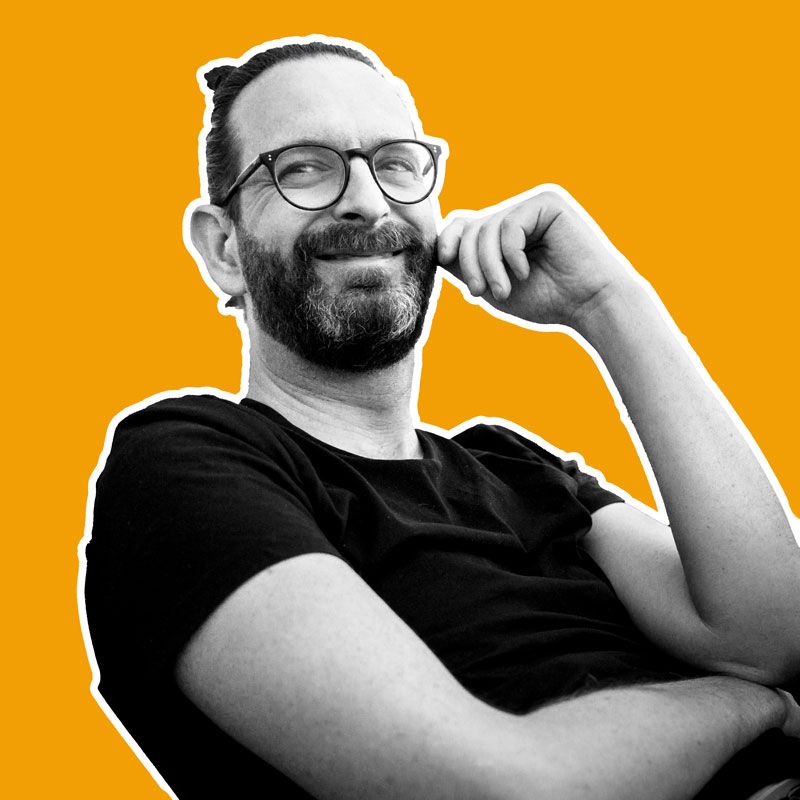
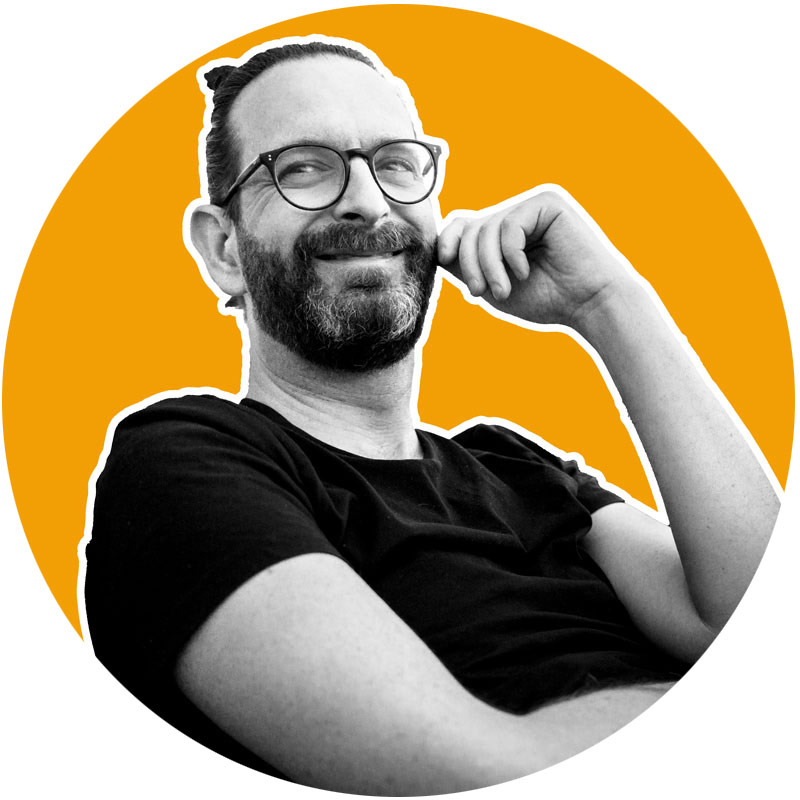
kleine korrekturen

Changed region(s): [[0.0, 0.0, 1.0, 1.0]]

diff --git a/src/index.html b/src/index.html
@@ -85,11 +85,10 @@
 		<div class="container page" id="start">
 			<div class="row">
 				<div class="col-sm-7" id="startProfileImage">
-					<div>&nbsp;</div>
-
+					<img src="de/img/profilbild.jpg" title="Bild von Bänä" alt="Bild von Bänä">
 				</div>
-
-				<div class="col-sm-5">
+				<div class="col-sm-1"></div>
+				<div class="col-sm-4">
 					<h1>Bänä Fotografie</h1>
 					<p>Professionelle Fotografie aus Bremen. Alles rund um Menschen und Business. City und Landschaft.</p>
 					<p>Achtung: <strong>Keine Party/Event Fotografie.</strong>. Keine Hochzeiten, Geburtstage, Firmenfeste oder andere Arten
@@ -158,8 +157,7 @@
 			<div class="row">
 				<div class="col-sm-6">
 					<h1>Leistungs-übersicht</h1>
-					<p>Du hast Lust auf ein Shooting oder du brauchst Fotos von deiner Firma, Mitarbeitern oder Produkten? Dann melde dich
-						gerne. Gerne erstelle ich dir ein maßgeschneidertes Angebot.</p>
+					<p>Du hast Lust auf ein Shooting oder du brauchst Fotos von deiner Firma, Mitarbeitern oder Produkten? Dann melde dich. Gerne erstelle ich dir ein maßgeschneidertes Angebot.</p>
 				</div>
 			</div>
 
@@ -181,27 +179,27 @@
 							</tr>
 							<tr>
 								<td>Preis</td>
-								<td><strong>ab 75 €</strong></td>
-								<td><strong>Umsonst/ Bewerbung</strong></td>
-								<td><strong>Nach Aufwand</strong></td>
+								<td>ab 75 €</td>
+								<td>Umsonst/ Bewerbung</td>
+								<td>Nach Aufwand</td>
 							</tr>
 							<tr>
 								<td class="line" colspan="4"><strong>Einsatz für</strong></td>
 							</tr>
 							<tr>
-								<td>Social-Media</td>
+								<td class="preline">Social-Media</td>
 								<td>Ja</td>
 								<td>Ja</td>
 								<td>Ja</td>
 							</tr>
 							<tr>
-								<td>Private Zwecke</td>
+								<td class="preline">Private Zwecke</td>
 								<td>Ja</td>
 								<td>Ja</td>
 								<td>Ja</td>
 							</tr>
 							<tr>
-								<td>Kommerzielle Zwecke</td>
+								<td class="preline">Kommerzielle Zwecke</td>
 								<td>Ja</td>
 								<td>Nein</td>
 								<td>Ja</td>

diff --git a/src/de/maincss.css b/src/de/maincss.css
@@ -84,7 +84,11 @@ table th a {
 }
 
 table .line {
-	border-top: white 1px solid;
+	border-top: #CCCCCC 1px solid;
+}
+
+table .preline {
+	padding-left: 20px;
 }
 
 p {
@@ -270,22 +274,14 @@ footer .instafooter img {
 	width: 100%;
 }
 
-#startProfileImage blockquote {
-	width: 50%;
-	margin: 0 auto 0 auto;
-}
 
-#startProfileImage div {
-	border-radius: 200px;
-	width: 300px;
-	height: 300px;
+#startProfileImage  {
+	max-width: 100%;
+	width: auto;
+	height: auto;
 
-	border: white 5px solid;
 
-	display: block;
-	margin: 0 auto 50px auto;
-
-	background-image: url(img/profilbild.jpg);
+	background-image: url();
 	background-size: cover;
 }
 
